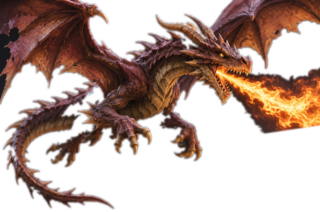
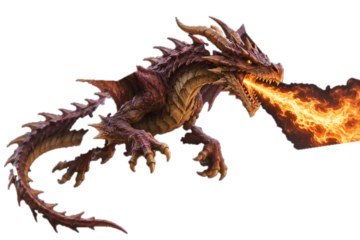
v2.45: Drache mit ganzen Fluegeln, die hoch und runter schlagen (beim Bewegen schneller)

diff --git a/js/drachenfluegel.js b/js/drachenfluegel.js
@@ -1,0 +1,111 @@
+/**
+ * 🪽 drachenfluegel.js – Große Drachenflügel, die hoch und runter schlagen!
+ *
+ * Das Drachen-Bild (drache.png) hat keine Flügel mehr – die werden hier
+ * gemalt, damit man sie GANZ sieht und sie sich bewegen können.
+ * Steht der Drache still, schlagen sie ruhig. Bewegt er sich, schlagen sie
+ * schnell und kräftig. Einschalten mit `<name>Wings` in config.js.
+ */
+
+// Wo die Flügel am Körper sitzen (Anteil vom Bild: 0 = links/oben, 1 = rechts/unten)
+const WING_ROOTS = {
+  near: { x: 0.35, y: 0.345 }, // vorderer Flügel an der Schulter
+  far: { x: 0.625, y: 0.27 }   // hinterer Flügel hinter dem Hals
+};
+
+// Flügel-Form (zeigt nach oben links). Einheit = Flügellänge.
+const WING_WRIST = { x: -0.28, y: -0.62 };
+const WING_TIPS = [
+  { x: -0.72, y: -0.95 },
+  { x: -1.0, y: -0.5 },
+  { x: -0.85, y: -0.08 },
+  { x: -0.42, y: 0.12 }
+];
+
+// Malt einen Flügel am Punkt (0, 0). dir = -1 zeigt nach links, 1 nach rechts.
+function paintWing(len, dir, dark) {
+  // Für dir = -1 bleibt die Form, für dir = 1 wird sie gespiegelt
+  const P = (pt) => ({ x: (dir < 0 ? pt.x : -pt.x) * len, y: pt.y * len });
+  const wrist = P(WING_WRIST);
+  const tips = WING_TIPS.map(P);
+
+  // Hautsegel: von Spitze zu Spitze mit nach innen gebogenen Bögen
+  const grad = ctx.createLinearGradient(0, 0, tips[0].x, tips[0].y);
+  grad.addColorStop(0, dark ? '#3f0f12' : '#5b1a1a');
+  grad.addColorStop(0.6, dark ? '#7c2d12' : '#9a3412');
+  grad.addColorStop(1, dark ? '#b45309' : '#ea580c');
+  ctx.fillStyle = grad;
+  ctx.strokeStyle = '#2a0a0a';
+  ctx.lineWidth = Math.max(1, len * 0.03);
+  ctx.lineJoin = 'round';
+  ctx.beginPath();
+  ctx.moveTo(0, 0);
+  ctx.lineTo(wrist.x, wrist.y);
+  ctx.lineTo(tips[0].x, tips[0].y);
+  for (let i = 1; i < tips.length; i++) {
+    const a = tips[i - 1], b = tips[i];
+    // Kontrollpunkt Richtung Handgelenk = Bogen nach innen (gezackter Rand)
+    const cx = (a.x + b.x) / 2 * 0.72 + wrist.x * 0.28;
+    const cy = (a.y + b.y) / 2 * 0.72 + wrist.y * 0.28;
+    ctx.quadraticCurveTo(cx, cy, b.x, b.y);
+  }
+  ctx.quadraticCurveTo(tips[3].x * 0.4, tips[3].y * 0.2 + len * 0.12, 0, 0);
+  ctx.closePath();
+  ctx.fill();
+  ctx.stroke();
+
+  // Knochen: Arm bis zum Handgelenk, dann Finger zu jeder Spitze
+  ctx.strokeStyle = dark ? '#2a0a0a' : '#3b0d0d';
+  ctx.lineCap = 'round';
+  ctx.lineWidth = Math.max(1.5, len * 0.07);
+  ctx.beginPath();
+  ctx.moveTo(0, 0);
+  ctx.lineTo(wrist.x, wrist.y);
+  ctx.stroke();
+  ctx.lineWidth = Math.max(1, len * 0.035);
+  ctx.beginPath();
+  for (const t of tips) {
+    ctx.moveTo(wrist.x, wrist.y);
+    ctx.lineTo(t.x, t.y);
+  }
+  ctx.stroke();
+
+  // Kleine goldene Kralle am Handgelenk
+  ctx.fillStyle = '#fde68a';
+  ctx.beginPath();
+  ctx.moveTo(wrist.x, wrist.y);
+  ctx.lineTo(wrist.x + (dir < 0 ? -1 : 1) * len * 0.05, wrist.y - len * 0.14);
+  ctx.lineTo(wrist.x + (dir < 0 ? 1 : -1) * len * 0.04, wrist.y - len * 0.02);
+  ctx.closePath();
+  ctx.fill();
+}
+
+// Aus drawActors (actors.js): beide Flügel HINTER den Körper malen.
+// w, h = Größe, in der das Drachen-Bild gemalt wird.
+function drawDragonWings(actor, w, h) {
+  // Wie schnell bewegt sich der Drache gerade? (für kräftigeres Schlagen)
+  const pos = actor.body.position;
+  const moved = actor.wingPrev ? Math.hypot(pos.x - actor.wingPrev.x, pos.y - actor.wingPrev.y) : 0;
+  actor.wingPrev = { x: pos.x, y: pos.y };
+  const target = Math.min(1, moved / 2.5);
+  actor.wingEnergy = (actor.wingEnergy || 0) * 0.9 + target * 0.1;
+  const e = actor.wingEnergy;
+  actor.wingPhase = (actor.wingPhase || 0) + 0.07 + e * 0.23; // schneller schlagen, wenn er sich bewegt
+  const flap = Math.sin(actor.wingPhase);                      // 1 = ganz oben, -1 = ganz unten
+  const amp = 0.25 + e * 0.45;                                 // wie weit hoch und runter
+
+  const len = h * 0.85;
+  const wings = [
+    { root: WING_ROOTS.far, dir: 1, dark: true, scale: 0.9 },
+    { root: WING_ROOTS.near, dir: -1, dark: false, scale: 1 }
+  ];
+  for (const wing of wings) {
+    ctx.save();
+    ctx.translate((wing.root.x - 0.5) * w, (wing.root.y - 0.5) * h);
+    // Hoch = Flügel dreht nach oben, runter = nach außen/unten. Dazu etwas gestaucht (sieht nach Schlagen aus)
+    ctx.rotate(-wing.dir * flap * amp);
+    ctx.scale(1, 0.8 + flap * 0.2);
+    paintWing(len * wing.scale, wing.dir, wing.dark);
+    ctx.restore();
+  }
+}

diff --git a/js/credits.js b/js/credits.js
@@ -6,7 +6,7 @@
  * GAME_VERSION hochzählen (z. B. 2.22 → 2.23).
  */
 
-const GAME_VERSION = '2.44';
+const GAME_VERSION = '2.45';
 const REPO_URL = 'https://github.com/felixinberlin/Jugendklub-Lieberose';
 
 const WISHES = [
@@ -65,7 +65,8 @@ const WISHES = [
   { v: '2.41', text: 'Größere Map 🗺 – mehr Platz zum Kämpfen auf dem Handy 📱 & neues Design: wütender Kobold mit gezackter Klinge 😠🗡' },
   { v: '2.42', text: 'Kobold als ganze Figur ohne Kreis 😠🗡 · Fledermaus: 100 Leben, 1,7 Schaden alle 1,2 Sekunden 🦇' },
   { v: '2.43', text: 'Dein Spielername bleibt gespeichert – auch wenn du den Tab schließt 💾👤' },
-  { v: '2.44', text: 'Neues Design: feuerspeiender Drache im Feuersturm 🐉🔥 & wütender Mais mit Lanze 🌽😡' }
+  { v: '2.44', text: 'Neues Design: feuerspeiender Drache im Feuersturm 🐉🔥 & wütender Mais mit Lanze 🌽😡' },
+  { v: '2.45', text: 'Der Drache hat ganze Flügel 🪽 – sie schlagen hoch und runter, beim Fliegen extra schnell 🐉' }
 ];
 
 // Abspann-Inhalt einmal beim Laden bauen

diff --git a/js/actors.js b/js/actors.js
@@ -216,7 +216,12 @@ function drawActors(now) {
       drawProSkin(kindOf(name), actorSize(name), now); // ✨ Edler Pro-Skin (skins.js)
     } else if (actorImage(name)) {
       // 😠🗡 Eigenes Bild, z. B. der wütende Kobold (sprites.js)
-      drawActorImage(actorImage(name), actorSize(name));
+      const img = actorImage(name);
+      if (actorCfg(name, 'Wings')) {
+        const box = actorImageBox(img, actorSize(name));
+        drawDragonWings(actor, box.w, box.h); // 🪽 Schlagende Flügel hinter dem Körper (drachenfluegel.js)
+      }
+      drawActorImage(img, actorSize(name));
     } else {
       drawEmoji(actorEmoji(name), 0, 0, actorSize(name)); // 🖼 aus dem Bilder-Speicher (sprites.js)
     }

diff --git a/js/sprites.js b/js/sprites.js
@@ -89,8 +89,11 @@ function actorImage(name) {
 }
 
 // Malt ein ausgeschnittenes Figuren-Bild (ohne Hintergrund), Mitte bei (0, 0)
-function drawActorImage(img, size) {
+function actorImageBox(img, size) {
   const h = size * 1.55; // etwas größer als Emojis, weil das Bild viel Rand und dunkle Farben hat
-  const w = h * img.naturalWidth / img.naturalHeight;
+  return { w: h * img.naturalWidth / img.naturalHeight, h };
+}
+function drawActorImage(img, size) {
+  const { w, h } = actorImageBox(img, size);
   ctx.drawImage(img, -w / 2, -h / 2, w, h);
 }

diff --git a/js/config.js b/js/config.js
@@ -46,6 +46,7 @@ const GAME_CONFIG = {
   yamalSize: 65,
   yamalBomb: '⚽',
   dracheEmoji: '🐉',
+  dracheWings: true,       // 🪽 Ganze Flügel, die hoch und runter schlagen (drachenfluegel.js)
   dracheImage: 'drache.png', // 🐉🔥 Neues Design: Dramatischer Drache im Feuersturm (Emoji nur, falls das Bild nicht lädt)
   dracheSize: 74,
   dracheBomb: '🐾',      // 🐉 Tobis Drache macht eine scharfe Kratzspur!

diff --git a/index.html b/index.html
@@ -257,6 +257,7 @@
   <script src="js/special-weapons.js"></script>
   <script src="js/special-moves.js"></script>
   <script src="js/fledermaus.js"></script>
+  <script src="js/drachenfluegel.js"></script>
   <script src="js/combos.js"></script>
   <script src="js/specials.js"></script>
   <script src="js/special-ui.js"></script>

diff --git a/AGENTS.md b/AGENTS.md
@@ -261,6 +261,7 @@ Die lange Beschreibung oben nennt die Funktionen; ihre Dateien sind jetzt:
 | `js/special-moves.js` | `MINI_BIT`, `minis`, `steer`, Mini-Kobolde/Lockvögel, Katzensprung, Mauseloch |
 | `js/specials.js` | `SPECIALS`, Aufladen, Auslösen, `updateSpecials`, `drawSpecials`, `resetSpecials` |
 | `js/special-ui.js` | Kraft-Knöpfe, `drawSpecialBadge`, Finger-Ereignisse, `buildSpecialsInfo` |
+| `js/drachenfluegel.js` | 🪽 `drawDragonWings(actor, w, h)` – malt 2 Flügel (Knochen + Hautsegel) hinter dem Drachen-Bild, Schlag-Tempo aus der Bewegung (`wingEnergy`, `wingPhase`). Schalter `<name>Wings`, Ansatzpunkte `WING_ROOTS` (Anteil vom Bild) |
 | `js/fledermaus.js` | 🦇 `batSuck` (Blutsaugen, `jump.type === 'suck'` → `updateBatSuck` aus `updateJumps`), `healActor(name, amount)` (Leben zurück, max `maxHp`), `drawBloodDrops`, `clearBloodDrops`. Lädt nach `special-moves.js`, vor `specials.js` |
 
 Ladereihenfolge: Waffen → Bewegungen → Zentrale → Anzeige → Credits → game.js. Funktionskörper dürfen spätere Globals verwenden; sofort ausgeführter Code darf das nicht. `SPECIALS` braucht beim Laden bereits die Kraft-Funktionen; `buildSpecialsInfo()` braucht die Auswahl-Kacheln.
